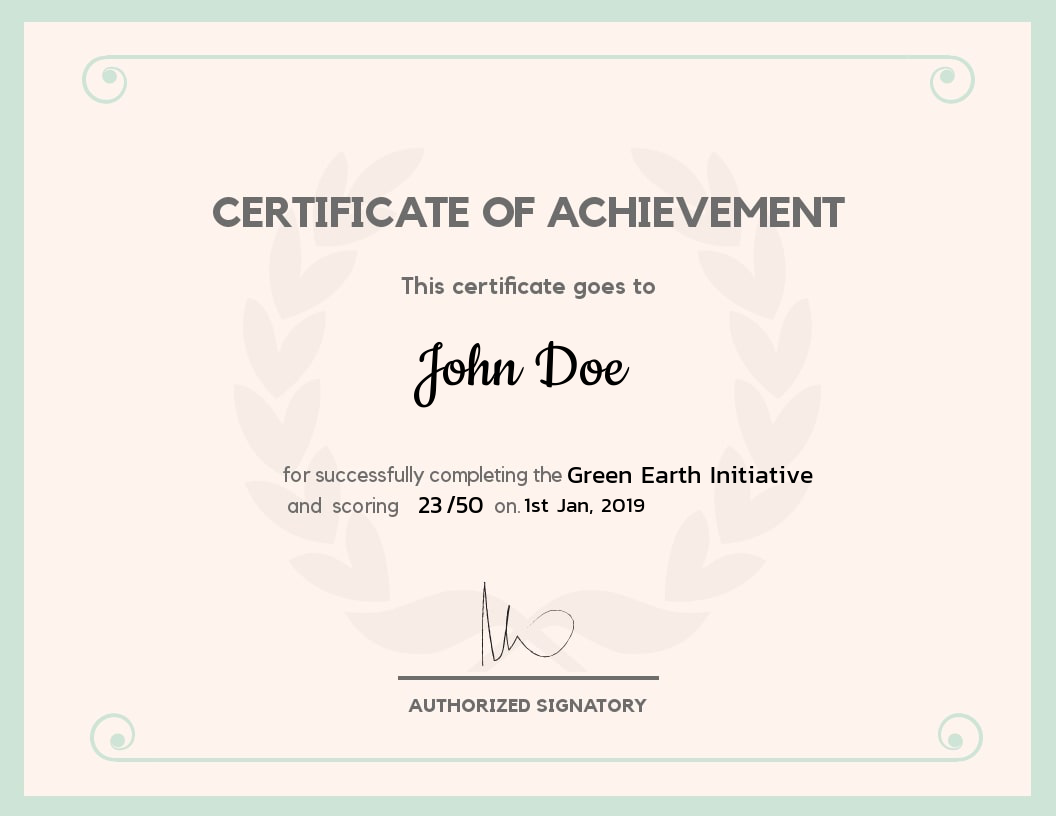
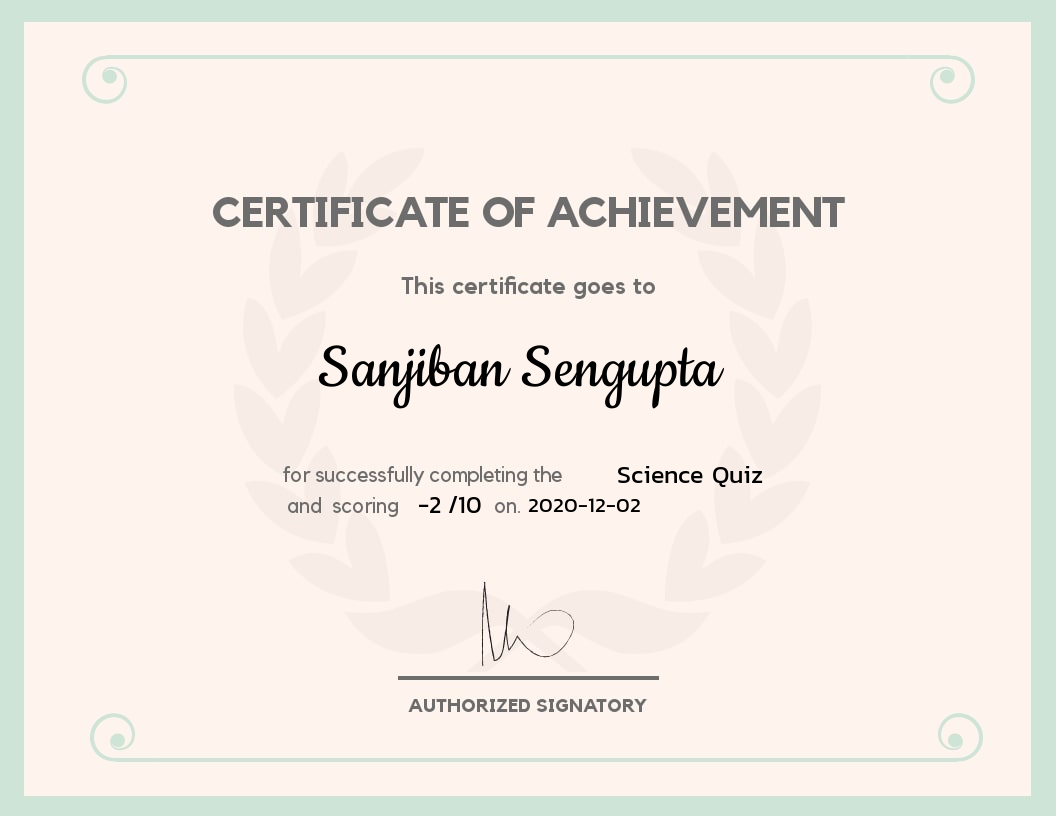
Backend integrated & errors rectified

Changed region(s): [[0.2812, 0.3983, 0.6875, 0.5208], [0.5, 0.5515, 0.7812, 0.6434], [0.4062, 0.6127, 0.4688, 0.6434]]

diff --git a/css/main.css b/css/main.css
@@ -37,3 +37,17 @@ hr{color:#000000;}
 .funkyradio input[type="checkbox"]:checked ~ label:before {content: '\2714';text-indent: .9em;color: #333;background-color: #ccc;}
 .funkyradio input[type="radio"]:focus ~ label:before,.funkyradio input[type="checkbox"]:focus ~ label:before {box-shadow: 0 0 0 3px #999;}
 .funkyradio-success input[type="radio"]:checked ~ label:before,.funkyradio-success input[type="checkbox"]:checked ~ label:before {color: #fff;background-color: #5cb85c;}
+
+
+.button1 {
+    display: block;
+    width: 115px;
+    height: 25px;
+    background: #4E9CAF;
+    padding: 10px;
+    text-align: center;
+    border-radius: 5px;
+    color: white;
+    font-weight: bold;
+    line-height: 25px;
+}

diff --git a/account.php b/account.php
@@ -5,7 +5,7 @@
 <meta http-equiv="Content-Type" content="text/html; charset=iso-8859-1" />
 <meta name="viewport" content="width=device-width, initial-scale=1">
 
-<title>Quizzo | Online Quiz System </title>
+<title>Quiz || Quizzer </title>
 <link  rel="stylesheet" href="css/bootstrap.min.css"/>
  <link  rel="stylesheet" href="css/bootstrap-theme.min.css"/>    
  <link rel="stylesheet" href="css/main.css">
@@ -29,7 +29,7 @@ include_once 'dbConnection.php';
 <div class="header">
 <div class="row">
 <div class="col-lg-6">
-<span class="logo">Quizzo</span></div>
+<span class="logo">Quizzer</span></div>
 <div class="col-md-4 col-md-offset-2">
  <?php
 include_once 'dbConnection.php';
@@ -148,8 +148,6 @@ if (@$_GET['q'] == 'quiz' && @$_GET['step'] == 2 && isset($_SESSION['6e447159425
     unset($_SESSION['6e447159425d2d']);
     $q = mysqli_query($con, "UPDATE history SET status='finished' WHERE username='$_SESSION[username]' AND eid='$_GET[eid]' ") or die('Error197');
         $q = mysqli_query($con, "SELECT * FROM history WHERE eid='$_GET[eid]' AND username='$_SESSION[username]'") or die('Error156');
-        $q1 = mysqli_query($con, "SELECT * FROM quiz WHERE eid='$_GET[eid]' AND username='$_SESSION[username]'") or die('Error156');
-
                 while ($row = mysqli_fetch_array($q)) {
                     $s = $row['score'];
                     $scorestatus = $row['score_updated'];
@@ -411,6 +409,7 @@ if (@$_GET['q'] == 'result' && @$_GET['eid']) {
     
     while ($row = mysqli_fetch_array($q)) {
         $s      = $row['score'];
+        $fin    = $row['score'];
         $w      = $row['wrong'];
         $r      = $row['correct'];
         $status = $row['status'];
@@ -471,66 +470,61 @@ if (@$_GET['q'] == 'result' && @$_GET['eid']) {
             echo "<br /></li>";
         }
         echo '</ol>';
-  /* if(array_key_exists('button1', $_POST)) { 
-            button1(); 
-        }    
-        function button1() { 
-            echo "<h1>This is Button1 that is selected</h1>"; 
-        } 
-
-   if(isset($_POST['button1'])) { 
-            echo "This is Button1 that is selected"; 
-        } 
-    */    
 
 
+        $cur_dir=getcwd();
+        $cmd="cd ";
+        $cmd=$cmd.$cur_dir."/certificate-generator";
+        //echo getcwd();
+        //echo $cur_dir;
+        chdir("certificate-generator");
+        //echo getcwd();
+
+        /*if ($status) echo "Directory path not found";
+        else
+        { 
+            echo "<pre>";
+            foreach($output as $line) echo "$line\n";
+        }
+        */
+        $correct=1;
+        $q1 = mysqli_query($con, "SELECT * FROM quiz WHERE eid='$eid' ") or die('Error197');
+        $q2 = mysqli_query($con, "SELECT * FROM history WHERE eid='$eid' ") or die('Error197');
+
+        while ($row = mysqli_fetch_array($q1)) {
+            $correct = $row['correct'];
+            $title=$row['title'];
+        }
+
+        while ($row = mysqli_fetch_array($q2)) {
+            $date = $row['date'];
+            $username=$row['username'];
+        }
+
+        $q3 = mysqli_query($con, "SELECT * FROM user WHERE username='$username' ") or die('Error197');
+        while ($row = mysqli_fetch_array($q3)) {
+            
+            $name=$row['name'];
+        }
+        
+     
+
+        $cmd="python test.py ";
+        $space=" ";
+        $cmd=$cmd."'".$name."'".$space."'".$title."'".$space.$fin.$space.$correct*$total.$space.$date;
+        //echo $cmd;
+        exec(escapeshellcmd($cmd), $output, $status);
+        
+        $image = "outputcertificate.png"; //Let say If I put the file name Bang.png
+        //echo '<img src="images/' . $image . '" width="200" alt="' .  pathinfo($image, PATHINFO_FILENAME) .'">';
+        //echo '<p><a href="download.php?file=' . urlencode($image) . '">Download</a></p>';
         echo '
-    <form method="post"> 
-        <center><input type="submit" name="button1"
-                class="button" value="Get Certificate" /> 
-          
-       </center>
-    </form> ';
+        <center><button><a style="text-decoration:none; color:black;" class="no-style" href="certificate-generator/outputcertificate.png" target="_blank">Get Certificate</a></button></center>';
+        
 
 
 
-if(isset($_POST['button1'])) { 
-    $cur_dir=getcwd();
-            $cmd="cd ";
-            $cmd=$cmd.$cur_dir;
-            //echo $cur_dir;
-            exec(escapeshellcmd($cmd), $output, $status);
-            /*if ($status) echo "Directory path not found";
-            else
-            { 
-            	echo "<pre>";
-            	foreach($output as $line) echo "$line\n";
-            }
-            */
-            $correct=1;
-            $q1 = mysqli_query($con, "SELECT * FROM quiz WHERE eid='$eid' ") or die('Error197');
-            $q2 = mysqli_query($con, "SELECT * FROM history WHERE eid='$eid' ") or die('Error197');
 
-            while ($row = mysqli_fetch_array($q1)) {
-                $correct = $row['correct'];
-            }
-
-            while ($row = mysqli_fetch_array($q2)) {
-                $date = $row['date'];
-            }
-
-            $cmd="python certificate.py ";
-            $space=" ";
-            $cmd=$cmd.$s.$space.$correct*$total.$space.$date;
-            echo $cmd;
-            exec(escapeshellcmd($cmd), $output, $status);
-            if ($status) echo "Exec command failed";
-            else
-            { 
-            	echo "<pre>";
-            	foreach($output as $line) echo "$line\n";
-            }
-        } 
         echo "</div>";
     } else {
         die("Thats a 404 Error bro. You are trying to access a wrong page");
@@ -629,9 +623,7 @@ if (@$_GET['q'] == 3) {
         echo '<td style="vertical-align:middle;text-align:center"><a style="font-size:14px;font-family:typo;font-weight:bold" href="account.php?q=3&show='.($show+1).'">&nbsp;>>&nbsp;</a></td>';
     }
     echo '</tr></table></div>';
-
 }
-
 ?>
 </div></div></div></div>
 <div class="row footer">

diff --git a/certificate-generator/certificate_generator.py b/certificate-generator/certificate_generator.py
@@ -56,17 +56,17 @@ class Certificate:
 			self.y3 = int(config['DATE']['DATE_Y'])
 			self.width3 = int(config['DATE']['DATE_WIDTH'])
 			self.font4 = config['SCORE']['SCORE_FONT']
-                        self.color4 = config['SCORE']['SCORE_COLOR']
-                        self.size4 = int(config['SCORE']['SCORE_FONT_SIZE'])
+			self.color4 = config['SCORE']['SCORE_COLOR']
+			self.size4 = int(config['SCORE']['SCORE_FONT_SIZE'])
 			self.x4 = int(config['SCORE']['SCORE_X'])
-                        self.y4 = int(config['SCORE']['SCORE_y'])
-                        self.width4 = int(config['SCORE']['SCORE_WIDTH'])
+			self.y4 = int(config['SCORE']['SCORE_y'])
+			self.width4 = int(config['SCORE']['SCORE_WIDTH'])
 			self.font5 = config['TOTAL']['TOTAL_FONT']
-                        self.color5 = config['TOTAL']['TOTAL_COLOR']
-                        self.size5 = int(config['TOTAL']['TOTAL_FONT_SIZE'])
-                        self.x5 = int(config['TOTAL']['TOTAL_X'])
-                        self.y5 = int(config['TOTAL']['TOTAL_y'])
-                        self.width5 = int(config['TOTAL']['TOTAL_WIDTH'])
+			self.color5 = config['TOTAL']['TOTAL_COLOR']
+			self.size5 = int(config['TOTAL']['TOTAL_FONT_SIZE'])
+			self.x5 = int(config['TOTAL']['TOTAL_X'])
+			self.y5 = int(config['TOTAL']['TOTAL_y'])
+			self.width5 = int(config['TOTAL']['TOTAL_WIDTH'])
 
 
 		except:
@@ -106,9 +106,9 @@ class Certificate:
 		width = font3.getsize(self.date)[0]
 		draw.text((self.x3+(self.width3-width)/2, self.y3-self.size3), self.date, fill=self.color3, font=font3)
 		width = font4.getsize(self.score)[0]
-                draw.text((self.x4+(self.width4-width)/2, self.y4-self.size4), self.score, fill=self.color4, font=font4)
+		draw.text((self.x4+(self.width4-width)/2, self.y4-self.size4), self.score, fill=self.color4, font=font4)
 		width = font5.getsize(self.total)[0]
-                draw.text((self.x5+(self.width5-width)/2, self.y5-self.size5), self.total, fill=self.color5, font=font5)
+		draw.text((self.x5+(self.width5-width)/2, self.y5-self.size5), self.total, fill=self.color5, font=font5)
 		
 		try:
 			image.save(self.output)

diff --git a/index.php b/index.php
@@ -41,11 +41,7 @@ function validateForm() {
     document.getElementById("errormsg").innerHTML="Please select your branch";
     return false;
   }
-  var rn = (document.forms["form"]["rollno"].value).split("/");
-  if (rn.length != 3) {
-    document.getElementById("errormsg").innerHTML="Incorrect Rollno. Please enter in the format (BE/10XXX/YY)";
-    return false;
-  }
+ 
   if((rn[0].length != 2 && rn[0].length != 3) || (rn[0].match(/[A-Z]/g)).length != rn[0].length){
     document.getElementById("errormsg").innerHTML="Incorrect Rollno "+rn[0]+". Make sure all letters are capital (Ex. 'BE' in BE/10XXX/YY)";
     return false;
@@ -177,7 +173,7 @@ echo $_GET['name'];
 <div class="form-group">
   <label class="col-md-12 control-label" for="rollno"></label>  
   <div class="col-md-12">
-  <input id="rollno" name="rollno" placeholder="Enter your Roll no (Ex. BE/10XXX/YY)" class="form-control input-md" type="text" value="<?php
+  <input id="rollno" name="rollno" placeholder="Enter your Roll no" class="form-control input-md" type="text" value="<?php
 echo $_GET['rollno'];
 ?>">
     

diff --git a/update.php b/update.php
@@ -70,14 +70,15 @@ if (isset($_SESSION['key'])) {
 if (isset($_SESSION['key'])) {
     if (@$_GET['q'] == 'addquiz' && $_SESSION['key'] == '54585c506829293a2d4c3b68543b316e2e7a2d277858545a36362e5f39') {
         $name    = $_POST['name'];
+        $eid = @$_GET['eid'];
         $name    = ucwords(strtolower($name));
         $total   = $_POST['total'];
-        $correct = $_POST['right'];
+        $correct = $_POST['correct'];
         $wrong   = $_POST['wrong'];
         $time    = $_POST['time'];
         $status  = "disabled";
         $id      = uniqid();
-        $q3      = mysqli_query($con, "INSERT INTO quiz VALUES(NULL,'$id','$name','$correct','$wrong','$total','$time', 'NOW()','$status')");
+        $q3      = mysqli_query($con, "INSERT INTO quiz VALUES(NULL,'$id','$name','$correct','$wrong','$total','$time',NOW(),'$status')") ;
         header("location:dash.php?q=4&step=2&eid=$id&n=$total");
     }
 }

diff --git a/download.php b/download.php
@@ -1,0 +1,19 @@
+<?php
+if(!empty($_GET['file'])){
+    $fileName = basename($_GET['file']);
+    $filePath = 'files/'.$fileName;
+    if(!empty($fileName) && file_exists($filePath)){
+        // Define headers
+        header("Cache-Control: public");
+        header("Content-Description: File Transfer");
+        header("Content-Disposition: attachment; filename=$fileName");
+        header("Content-Type: application/zip");
+        header("Content-Transfer-Encoding: binary");
+        
+        // Read the file
+        readfile($filePath);
+        exit;
+    }else{
+        echo 'The file does not exist.';
+    }
+}

diff --git a/dash.php b/dash.php
@@ -278,9 +278,9 @@ if (@$_GET['q'] == 4 && !(@$_GET['step'])) {
   </div>
 </div>
 <div class="form-group">
-  <label class="col-md-12 control-label" for="right"></label>  
+  <label class="col-md-12 control-label" for="correct"></label>  
   <div class="col-md-12">
-  <input id="right" name="right" placeholder="Enter marks on right answer" class="form-control input-md" min="0" type="number">
+  <input id="correct" name="correct" placeholder="Enter marks on right answer" class="form-control input-md" min="0" type="number">
     
   </div>
 </div>

diff --git a/certificate-generator/test.py b/certificate-generator/test.py
@@ -17,13 +17,15 @@ if x==1:
 else:
 	print("\nSTATUS: FAILED\n")
 '''
-
+print(sys.argv)
 a=sys.argv[1]
+
 b=sys.argv[2]
-c=sys.argv[3]
-d=sys.argv[4]
-e=sys.argv[5]
-f=sys.argv[6]
+c=str(sys.argv[5])
+d=str(sys.argv[3])
+e=str(sys.argv[4])
+
+f="outputcertificate.png"
 
 ct = Certificate(a,b,c,d,e,f)
 x = ct.create()
